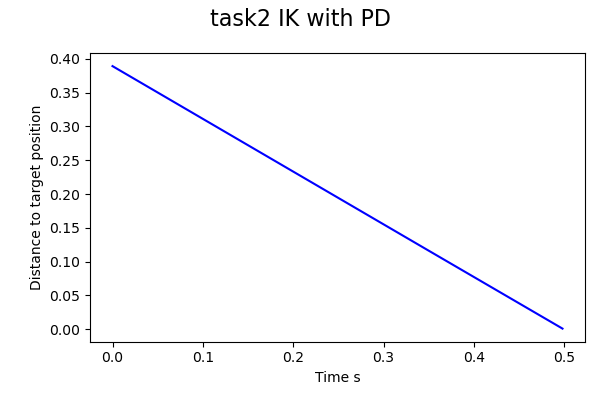
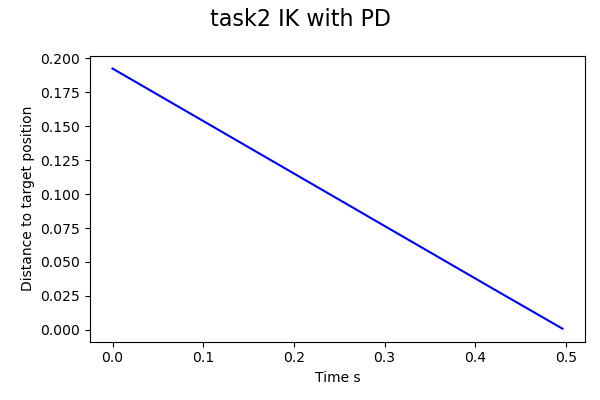
TASK2

diff --git a/task2/task2.py b/task2/task2.py
@@ -47,7 +47,7 @@ robotConfigs = {
 sim = Simulation(pybulletConfigs, robotConfigs)
 
 # This is an example target (angular) position for the joint LARM_JOINT2
-task2_jointName = "CHEST_JOINT0"
+task2_jointName = "LARM_JOINT5"
 task2_targetPosition = np.deg2rad(45)  # joint (angular) position in radians
 task2_targetVelocity = 0.0  # joint (angular) velocity in radians per second
 verbose = False
@@ -60,50 +60,50 @@ targetPosition = np.array([0.37, 0.23, 1.06385])
 
 pltTime, pltEFPosition = sim.move_with_PD(endEffector, targetPosition, speed=0.01, orientation=[0,0,1], threshold=1e-3, maxIter=500, debug=False, verbose=False)
 
-#task1_figure_name = "task2_kinematics.png"
-#task1_savefig = True
+task2_figure_name = "task2_kinematics.png"
+task2_savefig = True
 # ...
-#fig = plt.figure(figsize=(6, 4))
+fig = plt.figure(figsize=(6, 4))
 
-#plt.plot(pltTime, pltEFPosition, color='blue')
-#plt.xlabel("Time s")
-#plt.ylabel("Distance to target position")
+plt.plot(pltTime, pltEFPosition, color='blue')
+plt.xlabel("Time s")
+plt.ylabel("Distance to target position")
 
-#plt.suptitle("task2 IK with PD", size=16)
-#plt.tight_layout()
-#plt.subplots_adjust(left=0.15)
+plt.suptitle("task2 IK with PD", size=16)
+plt.tight_layout()
+plt.subplots_adjust(left=0.15)
 
-#if task1_savefig:
-#    fig.savefig(task1_figure_name)
-#plt.show()
+if task2_savefig:
+    fig.savefig(task2_figure_name)
+plt.show()
 
 
-pltTime, pltTarget, pltTorque, pltTorqueTime, pltPosition, pltVelocity = \
-    sim.moveJoint(
-        task2_jointName, task2_targetPosition, task2_targetVelocity, verbose)
+#pltTime, pltTarget, pltTorque, pltTorqueTime, pltPosition, pltVelocity = \
+#    sim.moveJoint(
+#        task2_jointName, task2_targetPosition, task2_targetVelocity, verbose)
 
 
 # modify the code in below if needed
-fig = plt.figure(figsize=(6, 8))
+#fig = plt.figure(figsize=(6, 8))
 
-plt.subplot(311)
-plt.plot(pltTime, pltPosition, color='blue')
-plt.plot(pltTime, pltTarget, color='magenta')
-plt.ylabel("Theta rads")
+#plt.subplot(311)
+#plt.plot(pltTime, pltPosition, color='blue')
+#plt.plot(pltTime, pltTarget, color='magenta')
+#plt.ylabel("Theta rads")
 
-plt.subplot(312)
-plt.plot(pltTime, pltPosition, color='blue')
-plt.plot(pltTime, pltVelocity, color='lightblue')
-plt.ylabel("Velocity rads/s")
+#plt.subplot(312)
+#plt.plot(pltTime, pltPosition, color='blue')
+#plt.plot(pltTime, pltVelocity, color='lightblue')
+#plt.ylabel("Velocity rads/s")
 
-plt.subplot(313)
-plt.plot(pltTorqueTime, pltTorque, color='orange')
-plt.xlabel("Time s")
-plt.ylabel("Torque N")
+#plt.subplot(313)
+#plt.plot(pltTorqueTime, pltTorque, color='orange')
+#plt.xlabel("Time s")
+#plt.ylabel("Torque N")
 
-plt.suptitle("Task2.2 Response of the controller", size=16)
-plt.tight_layout()
-plt.subplots_adjust(left=0.15)
+#plt.suptitle("Task2.2 Response of the controller", size=16)
+#plt.tight_layout()
+#plt.subplots_adjust(left=0.15)
 
 if task2_savefig:
    fig.savefig(task2_figure_name)

diff --git a/core/Pybullet_Simulation.py b/core/Pybullet_Simulation.py
@@ -332,7 +332,7 @@ class Simulation(Simulation_base):
             u(t) - the manipulation signal
         """
         # COMPLETE: Add your code here
-        u = kp*(x_ref - x_real) - kd*(-dx_real+dx_ref) + ki*integral
+        u = kp*(x_ref - x_real) - kd*(dx_real-dx_ref) + ki*integral
         return u
 
     # Task 2.2 Joint Manipulation
